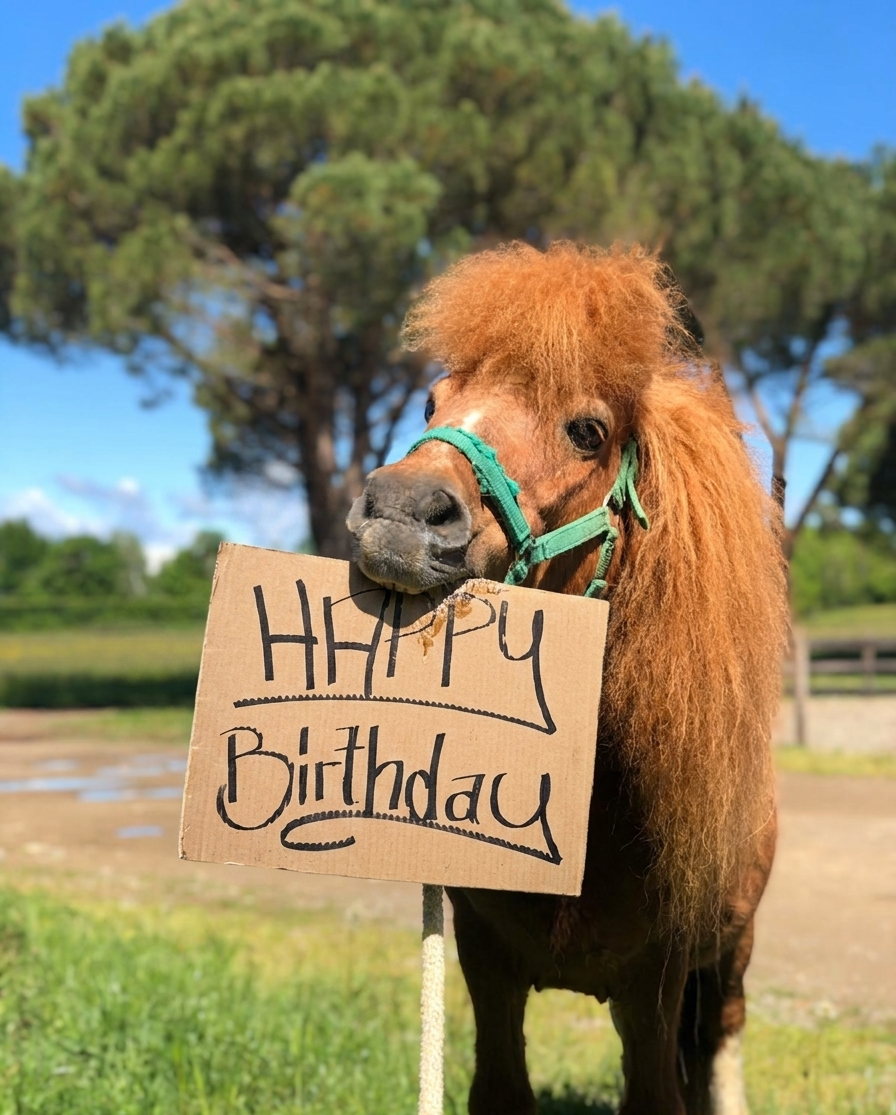
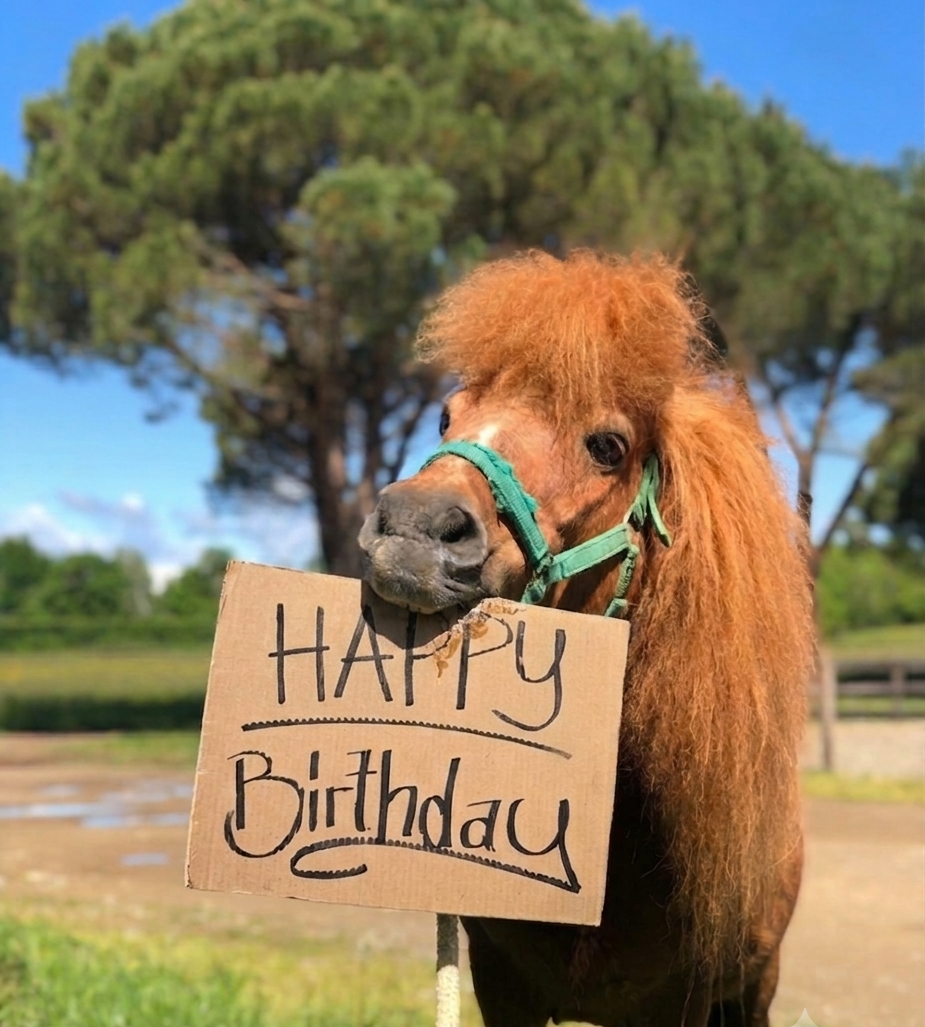
Modified Photo Feste

diff --git a/photo-gallery.html b/photo-gallery.html
@@ -194,7 +194,25 @@
       .gallery-page{padding:2.5rem 1.5rem;}
       .gallery-overview{grid-template-columns:1fr;}
     }
-  </style>
+
+  .gallery-item {
+    position: relative;
+    overflow: hidden;
+    border-radius: 8px;
+  }
+  .gallery-item.large  { grid-column: span 7; min-height: 420px; }
+  .gallery-item.tall   { grid-column: span 5; min-height: 420px; }
+  .gallery-item.medium { grid-column: span 4; min-height: 260px; }
+  .gallery-item.wide   { grid-column: span 8; min-height: 260px; }
+  .gallery-item img {
+    width: 100%;
+    height: 100%;
+    object-fit: cover;
+    display: block;
+    position: absolute;
+    top: 0; left: 0;
+  }
+</style>
 </head>
 <body>
 
@@ -264,19 +282,11 @@
       <p class="section-desc">Qui potremo inserire immagini della struttura, dei cavalli, dello staff e dell'atmosfera generale del centro.</p>
     </div>
     <div class="gallery-grid">
-      <div class="gallery-placeholder large">
-        <div class="placeholder-content">
-          <span class="placeholder-tag">Hero photo</span>
-          <p class="placeholder-title">Immagine principale della struttura</p>
-          <p class="placeholder-note">Ampio spazio introduttivo per raccontare l'identità del centro.</p>
-        </div>
+      <div class="gallery-item large">
+        <img src="assets/images/Chi-Siamo.png" alt="BM Horse - Chi siamo, cavallo bianco" loading="lazy" style="width:100%;height:100%;object-fit:cover;display:block;">
       </div>
-      <div class="gallery-placeholder tall">
-        <div class="placeholder-content">
-          <span class="placeholder-tag">Portrait</span>
-          <p class="placeholder-title">Staff o dettaglio emozionale</p>
-          <p class="placeholder-note">Ritratto verticale o momento autentico.</p>
-        </div>
+      <div class="gallery-item tall">
+        <img src="assets/images/Chi-Siamo-1.png" alt="BM Horse - Chi siamo, fondatrice con cavallo" loading="lazy" style="width:100%;height:100%;object-fit:cover;display:block;">
       </div>
       <div class="gallery-placeholder medium">
         <div class="placeholder-content">
